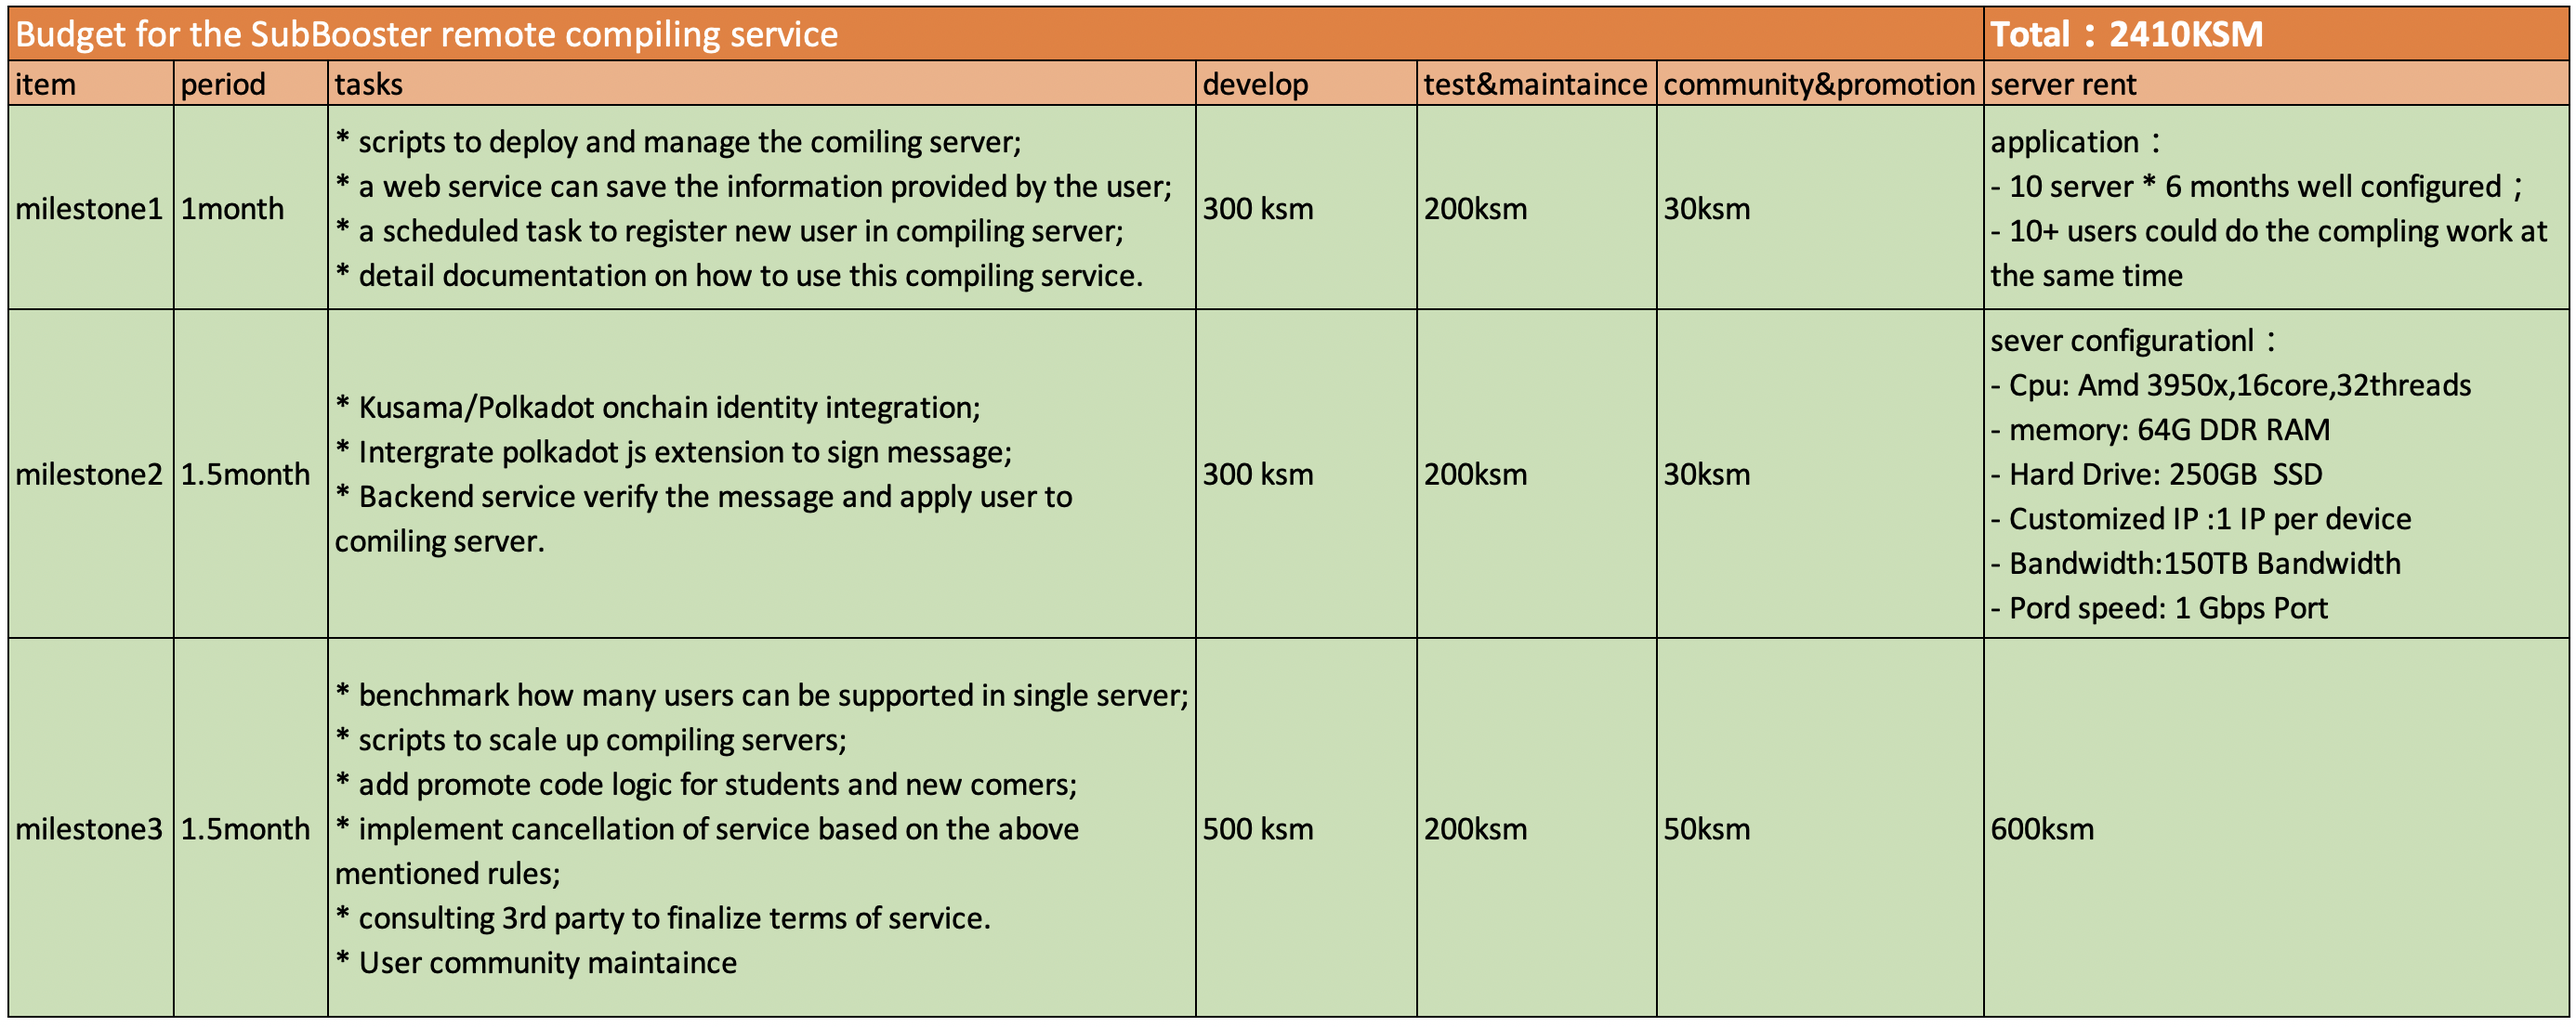
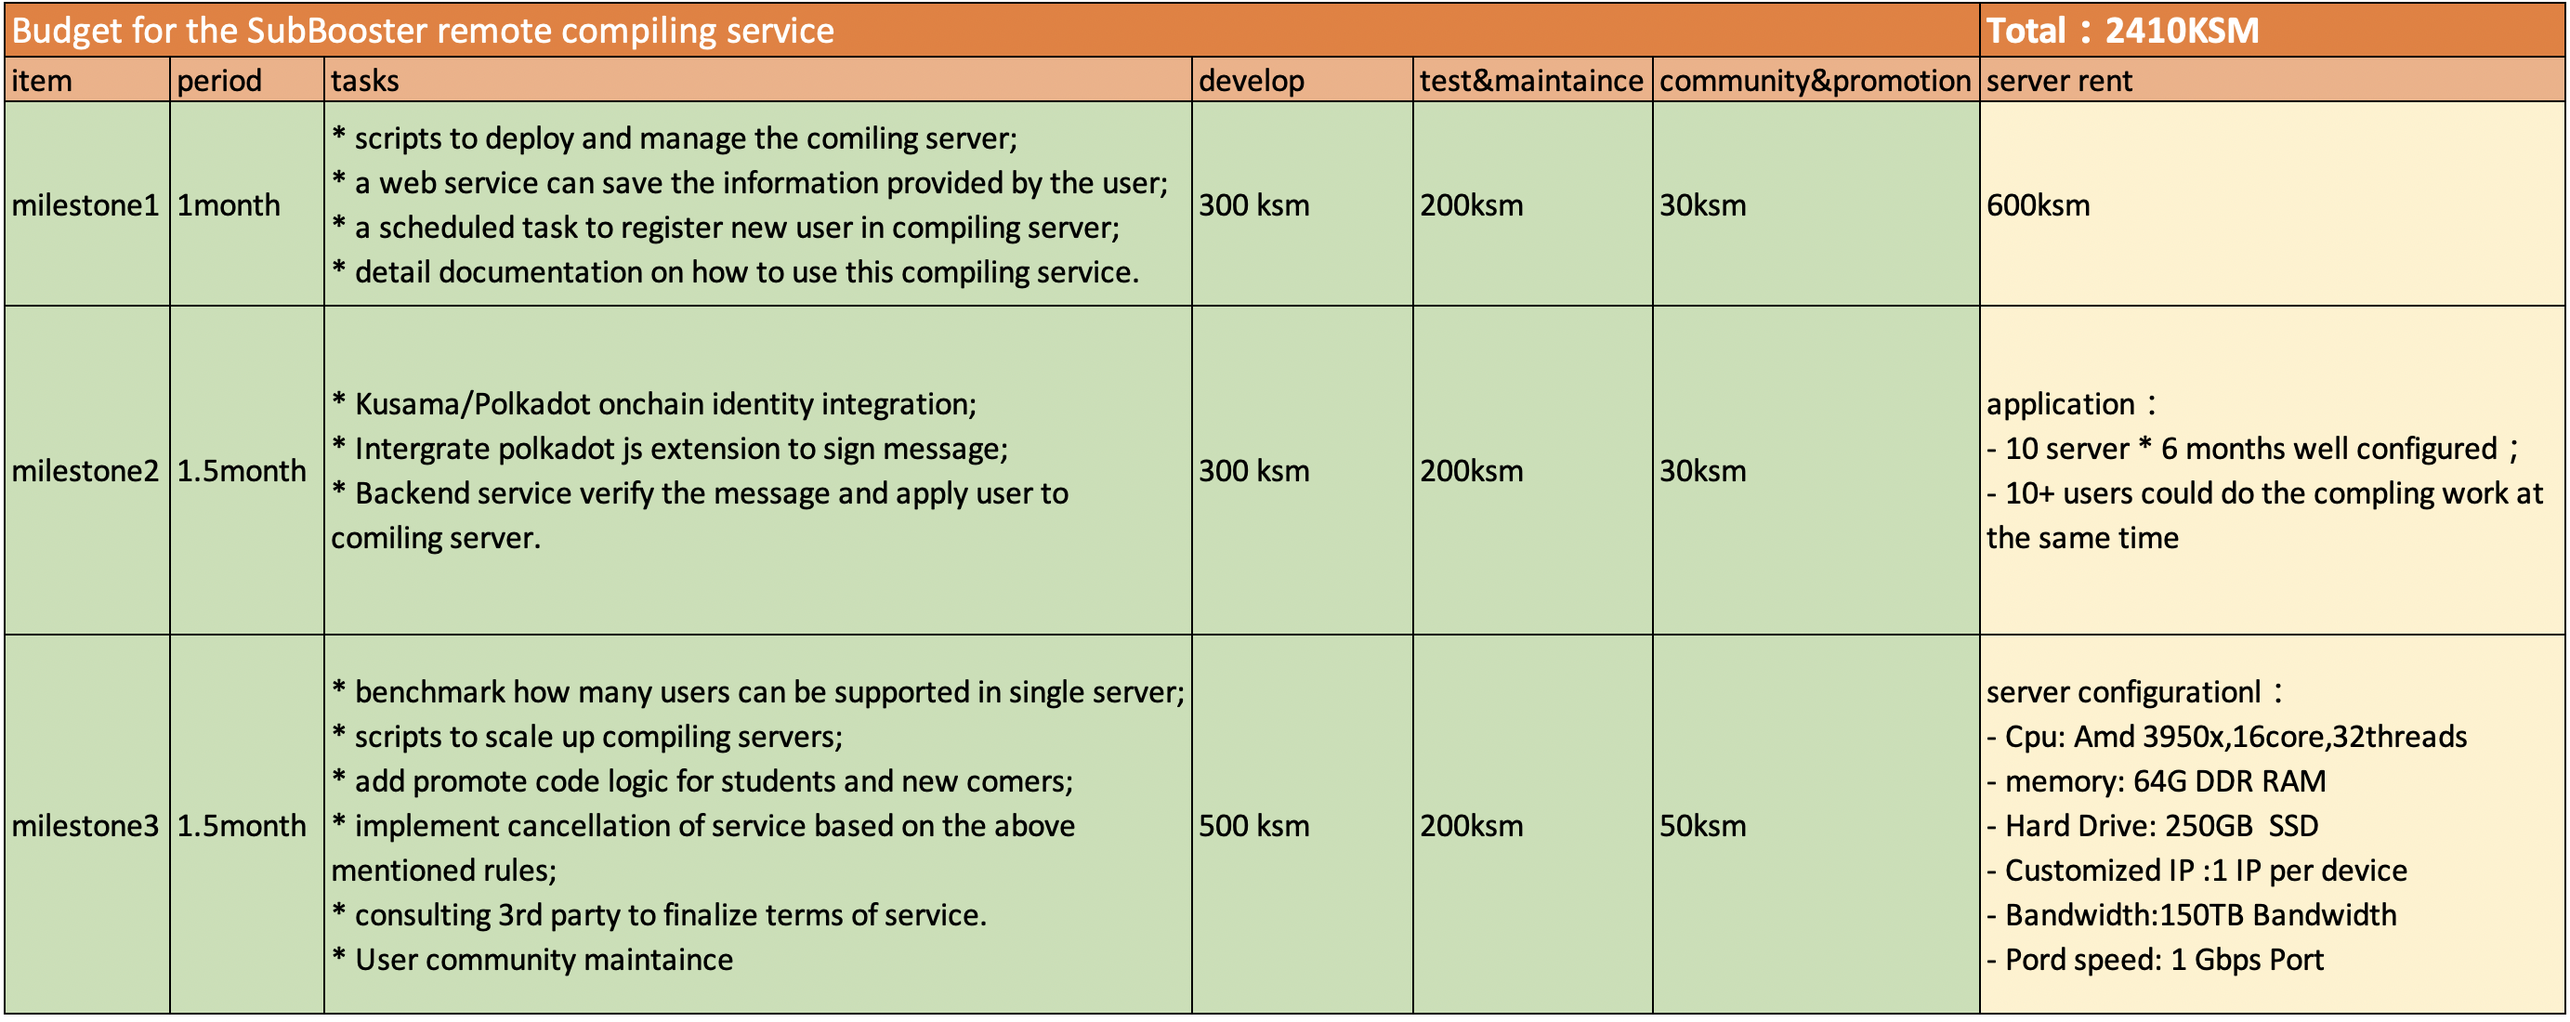
url

diff --git a/treasury_proposal.md b/treasury_proposal.md
@@ -96,7 +96,7 @@ Tasks:
 
 According the task in the technical map,here is a budget based on the tasks and sources.
 <!-- ![Budget](images/Budget.png) -->
-![Budget](https://github.com/sub-box/sub-box/blob/kevin/images/budget2.png)
+![Budget](https://github.com/sub-box/sub-box/blob/kevin/images/budget.png)
 
 
 <!-- ### Server configuration
